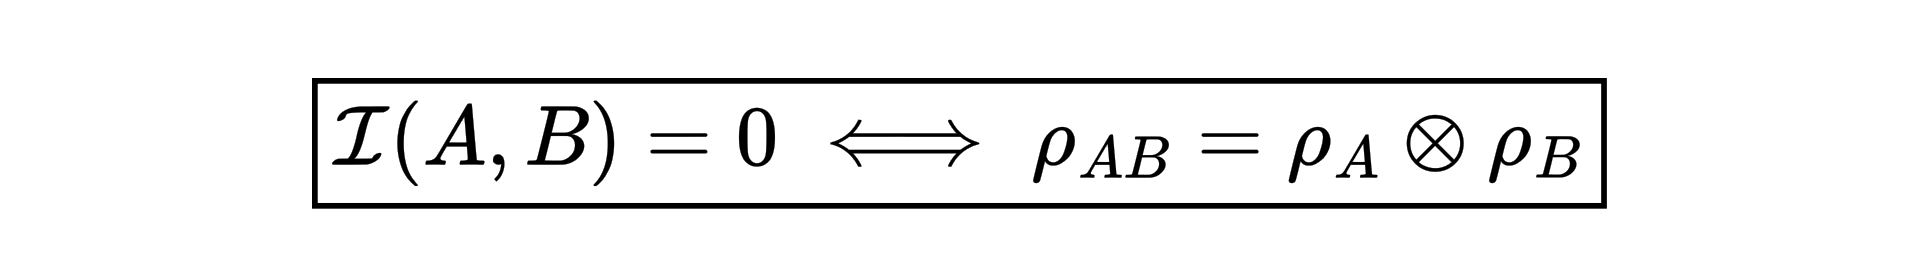
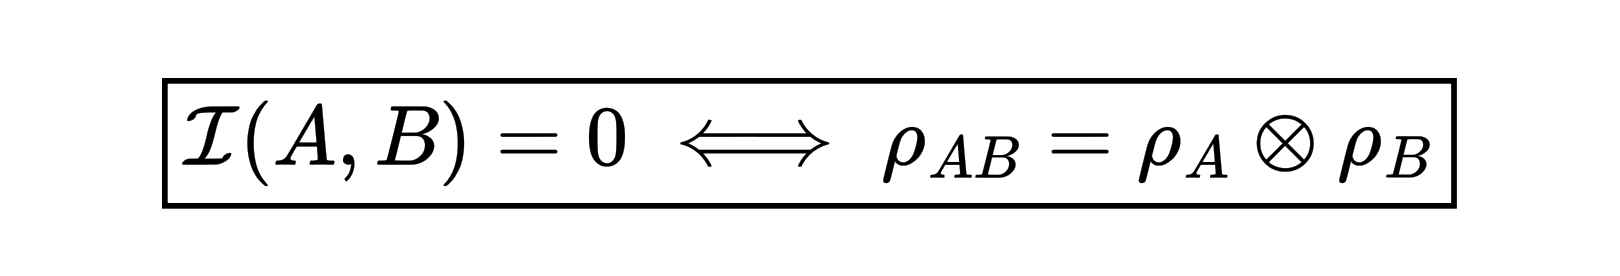
Fixing the math

Changed region(s): [[0.4938, 0.2609, 0.9259, 0.7826], [0.0926, 0.2609, 0.463, 0.7826], [0.2469, 0.6377, 0.2778, 0.6667]]

diff --git a/_posts/2025-05-30-entropic-inequalities-and-separability.md b/_posts/2025-05-30-entropic-inequalities-and-separability.md
@@ -54,7 +54,7 @@ The reason conditional entropy can be negative is due to quantum entanglement. I
 A natural question that pops up is: 
 >**Question.** For what quantum states $$\rho_{AB}$$ is the conditional quantum entropy positive? 
 
-An obvious answer would be separable states. As we just saw, entangled states are the ones which give negative conditional entropies. It is natural to expect that unentangled, i.e., separable, states have positive conditional quantum entropies.  This is indeed true[^3]. The conditional quantum entropy $$S_{A|B}$$ is non-negative for separable states. 
+An obvious answer would be separable states. As we just saw, entangled states are the ones which give negative conditional entropies. It is natural to expect that unentangled, i.e., separable, states have positive conditional quantum entropies.  This is indeed true[^3]. The conditional quantum entropy is non-negative for separable states. 
 
 But the converse is not true. In other words, this only gives us a necessary condition for separability, not a sufficient one. If $$S_{A|B}$$ is positive, we are not guaranteed to have a separable state; the Werner state[^4] furnishes a nice example. We can etch this new-found wisdom of ours onto the below figure:
 ![](/assets/conditional-entropy.png)
